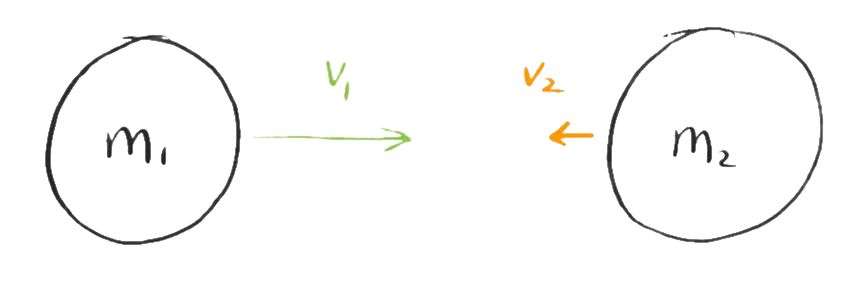
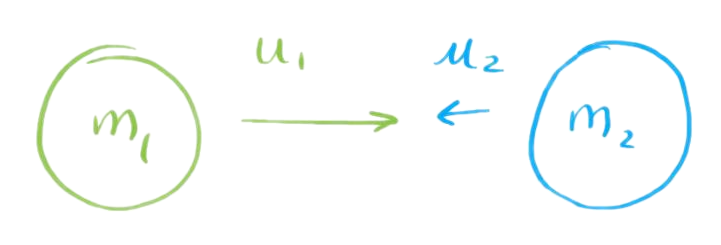
Move to cleaner syntax for 2D kinematics

diff --git a/mechanics/2D-non-relativistic-collisions.md b/mechanics/2D-non-relativistic-collisions.md
@@ -1,75 +1,75 @@
 2D Non-Relativistic Collisions
 =============
-Consider two masses $m_1$ and $m_2$ with velocities $\vec{v_1}$ and $\vec{v_2}$ respectively.
+Consider two masses $m_1$ and $m_2$ with velocities $\vec{u_1}$ and $\vec{u_2}$ respectively.
 ![Lab frame.](images/lab_frame.png)
 
 We can create an inertial frame in which the _net_ momentum is zero, the center of momentum (CoM) frame. The velocity of this frame is given by 
 $$
-\vec{V_\text{cm}} = \frac{\sum_i{m_i \vec{v_i}}}{\sum_im_i}\,.
+\vec{V_\text{cm}} = \frac{\sum_i{m_i \vec{u_i}}}{\sum_im_i}\,.
 $$
 
-In this frame, the new velocities $\mu_i$ are given by 
+In this frame, the new velocities $\hat{u}_i$ are given by 
 $$
 \tag{a}
-\vec{\mu_i}=\vec{v_i}-\vec{V_\text{cm}}\,.
+\vec{\hat{u}_i}=\vec{u_i}-\vec{V_\text{cm}}\,.
 $$
 ![CoM frame.](images/com_frame.png)
 
 Given that the sum of momenta must be zero, 
 $$
     \tag{b}
-    m_1\vec{\mu_1} + m_2\vec{\mu_2} = \vec{0}\,.
+    m_1\vec{\hat{u}_1} + m_2\vec{\hat{u}_2} = \vec{0}\,.
 $$
 It also follows that, for an elastic collision,
 $$
     \tag{c}
-    m_1{\mu_1}^2 + m_2{\mu_2}^2 = m_1{\hat{\mu}_1}^2 + m_2{\hat{\mu}_2}^2\,,
+    m_1{\hat{u}_1}^2 + m_2{\hat{u}_2}^2 = m_1{\hat{v}_1}^2 + m_2{\hat{v}_2}^2\,,
 $$
 
-where $\vec{\hat{\mu_i}}$ is the velocity of a mass _after_ collision, in the CoM frame.
+where $\vec{\hat{\hat{u}_i}}$ is the velocity of a mass _after_ collision, in the CoM frame.
 
-From **(b)**, we can find $\vec{\mu_2}$ and $\vec{\hat{\mu}_2}$ in terms of the velocities of $m_1$
+From **(b)**, we can find $\vec{\hat{u}_2}$ and $\vec{\hat{v}_2}$ in terms of the velocities of $m_1$
 $$
 \begin{aligned}
-\vec{\mu_2} &= -\frac{m_1}{m_2}\vec{\mu_1}\\
-\vec{\hat{\mu}_2} &= -\frac{m_1}{m_2}\vec{\hat{\mu}_1}\,.
+\vec{\hat{u}_2} &= -\frac{m_1}{m_2}\vec{\hat{u}_1}\\
+\vec{\hat{v}_2} &= -\frac{m_1}{m_2}\vec{\hat{v}_1}\,.
 \end{aligned}
 $$
 
 Substituting these relations into **(c)**, it follows that
 $$
 \begin{aligned}
-m_1{\mu_1}^2 + m_2\left(\frac{m_1}{m_2}{\mu_1}\right)^2 &= m_1{\hat{\mu}_1}^2 + m_2\left(\frac{m_1}{m_2}{\hat{\mu}_1}\right)^2\\
-m_1{\mu_1}^2\left(1+\frac{m_1}{m_2}\right) &= m_1{\hat{\mu}_1}^2\left(1+\frac{m_1}{m_2}\right)\,,
+m_1{\hat{u}_1}^2 + m_2\left(\frac{m_1}{m_2}{\hat{u}_1}\right)^2 &= m_1{\hat{v}_1}^2 + m_2\left(\frac{m_1}{m_2}{\hat{v}_1}\right)^2\\
+m_1{\hat{u}_1}^2\left(1+\frac{m_1}{m_2}\right) &= m_1{\hat{v}_1}^2\left(1+\frac{m_1}{m_2}\right)\,,
 \end{aligned}
 $$
 
-i.e. the energies in the CoM frame are invariant. As a CoM frame, it holds that $\sum_i m_i\vec{\hat{\mu}_i} = \vec{0}$, and so the velocities $\vec{\hat{\mu}_i}$ remain _anti-aligned_. If we assume _isotropic scattering_ in the CoM frame, then $\vec{\hat{\mu}_i}$ are rotated about _some_ axis by angle $\theta$, with respect to their original directions $\vec{{\mu}_i}$. This rotation may be represented as an orthogonal matrix $R(\theta)$, which _preserves the vector norm_, with
+i.e. the energies in the CoM frame are invariant. As a CoM frame, it holds that $\sum_i m_i\vec{\hat{v}_i} = \vec{0}$, and so the velocities $\vec{\hat{v}_i}$ remain _anti-aligned_. If we assume _isotropic scattering_ in the CoM frame, then $\vec{\hat{v}_i}$ are rotated about _some_ axis by angle $\theta$, with respect to their original directions $\vec{{\hat{u}}_i}$. This rotation may be represented as an orthogonal matrix $R(\theta)$, which _preserves the vector norm_, 
 <!-- TODO: link to Orthogonal matrix properties -->
 $$
-\vec{\hat{\mu}_i} = R(\theta)\vec{\hat{\mu}}\,.
+\vec{\hat{v}_i} = R(\theta)\vec{\hat{u}_i}\,.
 $$
 
 The final velocities _in the lab frame_ are then simply
 $$
 \tag{d}
 \begin{aligned}
-\vec{\hat{v}_i} &= \vec{\hat{\mu}_i} + \vec{V_\text{cm}}\\
-&= R(\theta)\vec{\mu_i} + \vec{V_\text{cm}}\,.
+\vec{v_i} &= \vec{\hat{v}_i} + \vec{V_\text{cm}}\\
+&= R(\theta)\vec{\hat{u}_i} + \vec{V_\text{cm}}\,.
 \end{aligned}
 $$
 
-If $\vec{v_2}=0$, then **(d)** reduces to 
+If $\vec{u_2}=0$, then **(d)** reduces to 
 $$
 \begin{aligned}
-\vec{\hat{v}_i} &= R(\theta)\vec{\mu_i} + \frac{m_1}{m_1+m_2}\vec{v_1}\,.
+\vec{v_i} &= R(\theta)\vec{\hat{u}_i} + \frac{m_1}{m_1+m_2}\vec{u_1}\,.
 \end{aligned}
 $$
 
-From **(a)**, $\vec{\mu_1}=\vec{v_1}\left(1-\frac{m_1}{m_1+m_2}\right) = \vec{v_1}\frac{m_2}{m_1+m_2}$, which gives
+From **(a)**, $\vec{\hat{u}_1}=\vec{u_1}\left(1-\frac{m_1}{m_1+m_2}\right) = \vec{u_1}\frac{m_2}{m_1+m_2}$, which gives
 $$
 \begin{aligned}
-\vec{\hat{v}_i} &= \left(R(\theta)\frac{m_2}{m_1+m_2} + \frac{m_1}{m_1+m_2}\right)\vec{v_1}\,.
+\vec{v_i} &= \left(R(\theta)\frac{m_2}{m_1+m_2} + \frac{m_1}{m_1+m_2}\right)\vec{u_1}\,.
 \end{aligned}
 $$
 
@@ -78,9 +78,9 @@ Energy Transfer
 The ratio of the kinetic energy before and after the collision is then given by 
 $$
 \begin{aligned}
-\frac{\hat{E}}{E} = \frac{\vec{\hat{v}_i}\cdot\vec{\hat{v}_i}}{\vec{v_1} \cdot \vec{v_1}} 
-&= \left(\frac{R(\theta)m_2 + m_1}{m_1+m_2}\right)\vec{v_1}\cdot \left(\frac{R(\theta)m_2 + m_1}{m_1+m_2}\right)\vec{v_1}\\
-&= \frac{{m_1}^2 + \left(R(\theta)\vec{v_1}\right)\cdot \left(R(\theta)\vec{v_1}\right){m_2}^2 + 2m_1m_2\left(R(\theta)\vec{v_1}\right)\cdot{v_1}}{\left(m_1+m_2\right)^2\lvert \vec{v_1}\rvert^2}\\
+\frac{E(\theta)}{E_0} = \frac{\vec{v_i}\cdot\vec{v_i}}{\vec{u_i} \cdot \vec{u_i}} 
+&= \left(\frac{R(\theta)m_2 + m_1}{m_1+m_2}\right)\vec{u_i}\cdot \left(\frac{R(\theta)m_2 + m_1}{m_1+m_2}\right)\vec{u_i}\\
+&= \frac{{m_1}^2 + \left(R(\theta)\vec{u_i}\right)\cdot \left(R(\theta)\vec{u_i}\right){m_2}^2 + 2m_1m_2\left(R(\theta)\vec{u_i}\right)\cdot{u_i}}{\left(m_1+m_2\right)^2\lvert \vec{u_i}\rvert^2}\\
 &= \frac{{m_1}^2+{m_2}^2+2m_1m_2\cos(\theta)}{\left(m_1+m_2\right)^2}\,.
 \end{aligned}
 $$
@@ -88,10 +88,10 @@ $$
 The _maximum_ energy loss $\Delta E$ occurs at $180\degree$ (full back scattering)
 $$
 \begin{aligned}
-\Delta E = E - \hat{E}_\text{min} 
-&= E\left(1 - \frac{\hat{E}_\text{min}}{E}\right)\\
-&= E\left(1-\frac{{m_1}^2+{m_2}^2-2m_1m_2}{\left(m_1+m_2\right)^2}\right)\\
-&= E\frac{4m_1m_2}{\left(m_1+m_2\right)^2}\,.
+\Delta E = E_0 - E(\theta)_\text{min} 
+&= E_0\left(1 - \frac{E(\theta)_\text{min}}{E_0}\right)\\
+&= E_0\left(1-\frac{{m_1}^2+{m_2}^2-2m_1m_2}{\left(m_1+m_2\right)^2}\right)\\
+&= E_0\frac{4m_1m_2}{\left(m_1+m_2\right)^2}\,.
 \end{aligned}
 $$
 
@@ -99,9 +99,9 @@ If $m_1\gg m_2$, then
 $$
 \begin{aligned}
 \Delta E 
-&=  E\frac{4m_1m_2}{\left(m_1+m_2\right)^2}\\
-&= E\frac{4m_1m_2}{{m_1}^2\left(1+\frac{m_2}{m_1}\right)^2}\\
-&\approx E\frac{4m_2}{{m_1}}\,.
+&=  E_0\frac{4m_1m_2}{\left(m_1+m_2\right)^2}\\
+&= E_0\frac{4m_1m_2}{{m_1}^2\left(1+\frac{m_2}{m_1}\right)^2}\\
+&\approx E_0\frac{4m_2}{{m_1}}\,.
 \end{aligned}
 $$
 
@@ -110,9 +110,9 @@ Deflection Angle
 The deflection angle $\phi$ in the lab frame can be determined from the dot product of the initial and final velocities:
 $$
 \begin{aligned}
-\lvert\vec{v_1}\rvert^2\cos(\phi) &= \vec{\hat{v}_1}\cdot\vec{v_1}\\
-&= \frac{m_2 \left(R(\theta)\vec{v_1}\right)+m_1\vec{v_1}}{m_1+m_2}\cdot\vec{v_1}\\
-&= \lvert \vec{v_1}\rvert^2\left(\frac{m_1+m_2\cos(\theta)}{m_1+m_2}\right)\\
+\lvert\vec{u_1}\rvert^2\cos(\phi) &= \vec{v_1}\cdot\vec{u_1}\\
+&= \frac{m_2 \left(R(\theta)\vec{u_1}\right)+m_1\vec{u_1}}{m_1+m_2}\cdot\vec{u_1}\\
+&= \lvert \vec{u_1}\rvert^2\left(\frac{m_1+m_2\cos(\theta)}{m_1+m_2}\right)\\
 \cos(\phi) &= \frac{m_1+m_2\cos(\theta)}{m_1+m_2}\,.
 \end{aligned}
 $$

diff --git a/nuclear/detectors/thick-target-inverse-kinematics.md b/nuclear/detectors/thick-target-inverse-kinematics.md
@@ -6,5 +6,5 @@ The TTIK technique is used to perform continuous measurement of an _excitation f
 
 The experimental setup involves a thick target volume (usually a gas), where *thick* implies that the beam is fully stopped within the target. In the above figure, an He gas target is used, with which surrounds the experimental equipment. 
 
-The beam energy spans a continuous range, with the maximum defined at the point following the entry window, and the minimum limited only by the scattering process. In order to reach the detectors, the detected particles must have a lower stopping power than the beam nuclei. The term *inverse kinematics* refers to a beam with heavier nuclei than those of the target. In this configuration, the scattered light particles are confined to a cone of forward angles in the laboratory frame (for elastic scattering, see [the deflection angle in 2D scattering](../../mechanics/2D-non-relativistic-collisions.md#Deflection-Angle)), which allows for the detectors to placed solely at forward angles.
+The beam energy spans a continuous range, with the maximum defined at the point following the entry window, and the minimum limited only by the scattering process. In order to reach the detectors, the detected particles must have a lower stopping power than the beam nuclei. The term *inverse kinematics* refers to a beam with heavier nuclei than those of the target. In this configuration, the scattered light particles are confined to a cone of forward angles in the laboratory frame (for elastic scattering, see [the deflection angle in 2D scattering](../../mechanics/2D-non-relativistic-collisions.md#Deflection-Angle), which approaches zero as the beam to mass ratio increases), which allows for the detectors to placed solely at forward angles.
 [1]: https://iopscience.iop.org/article/10.1088/1742-6596/569/1/012052/meta
